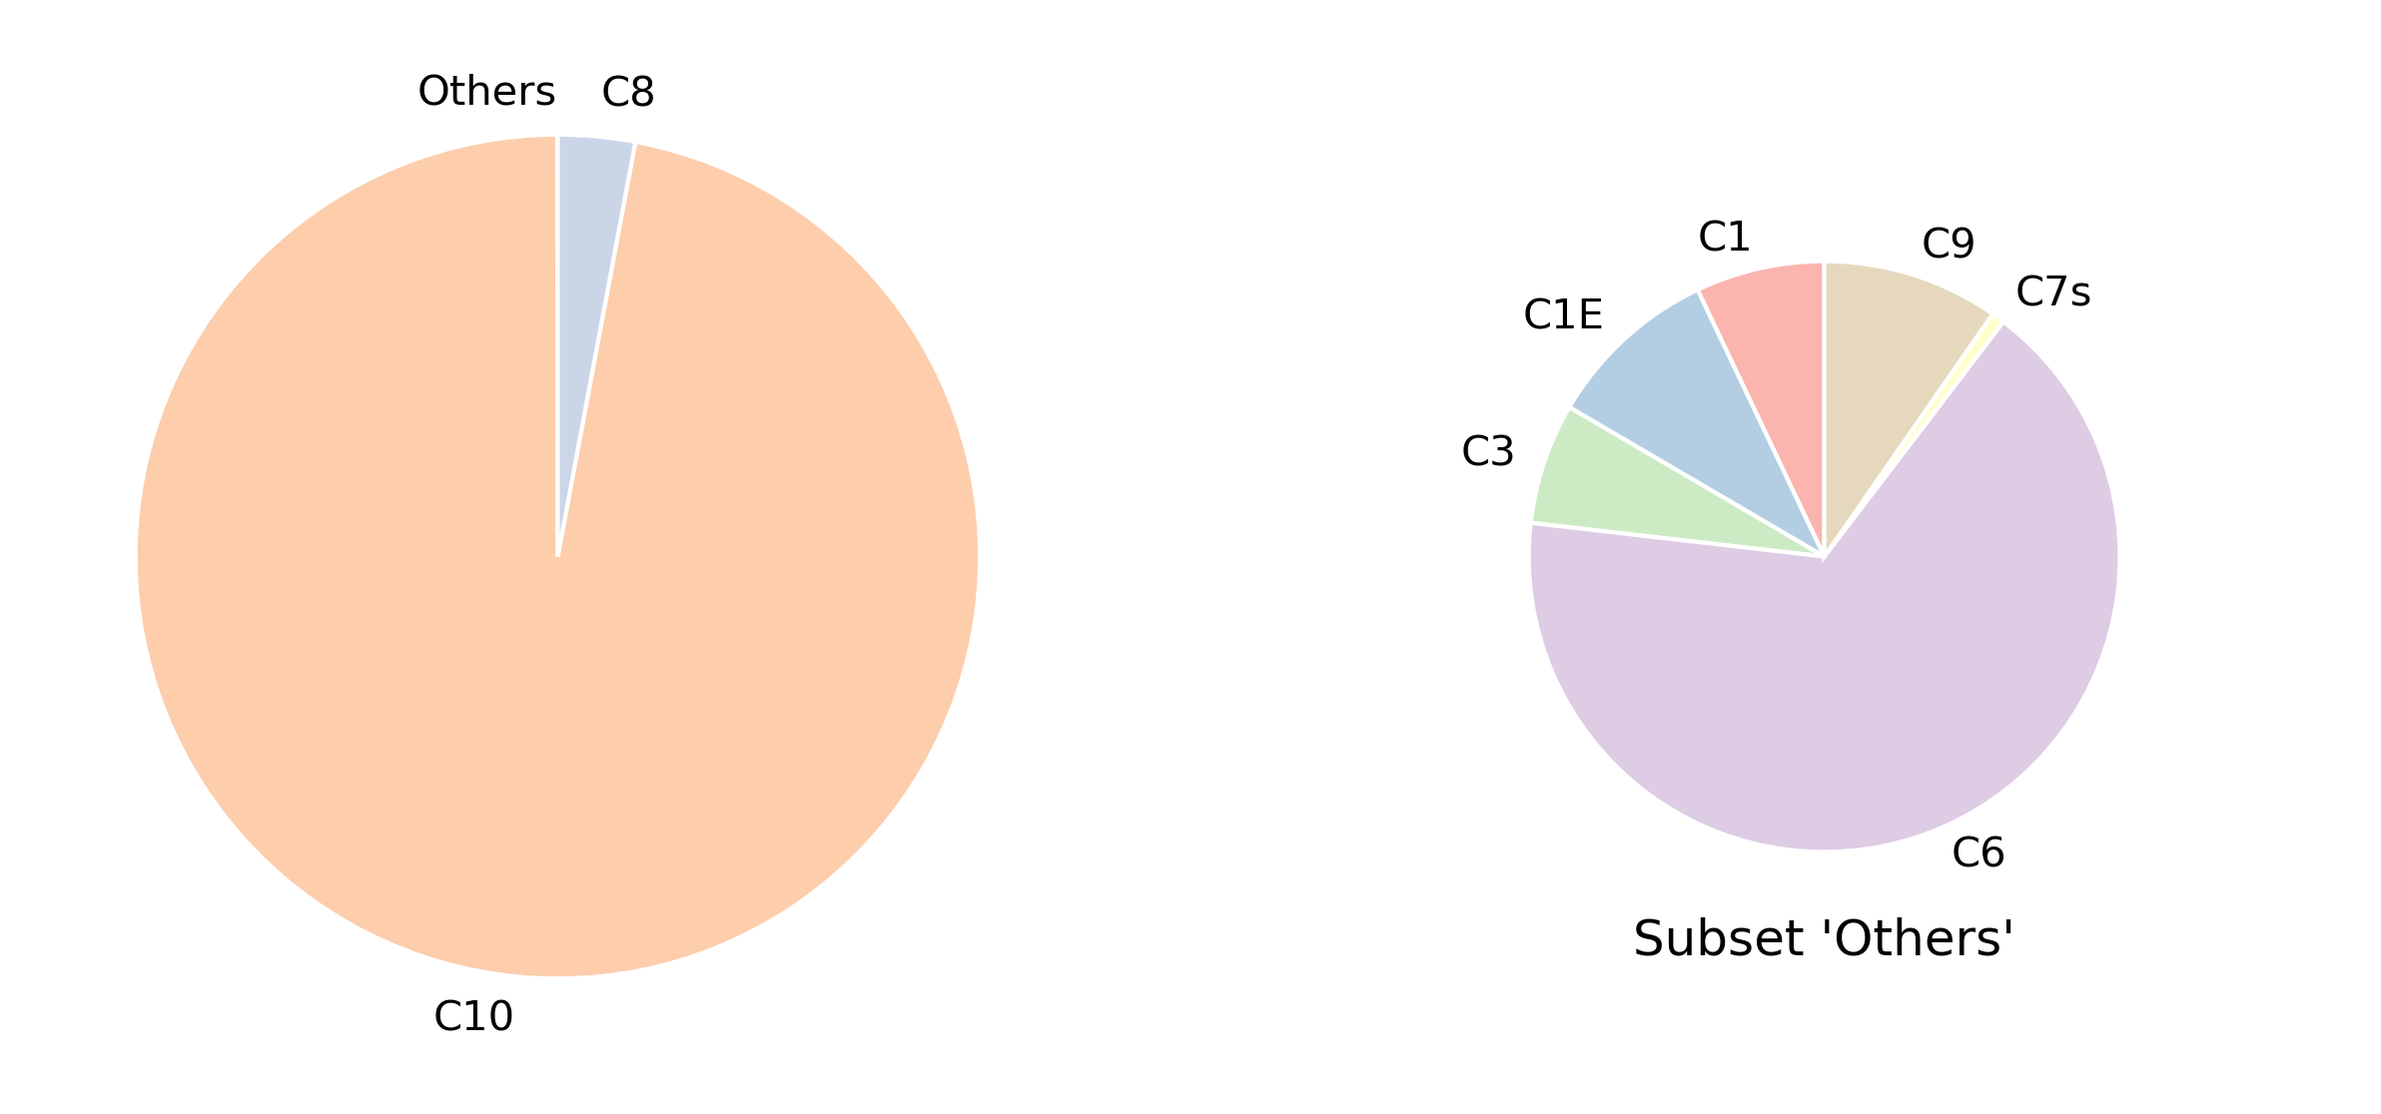
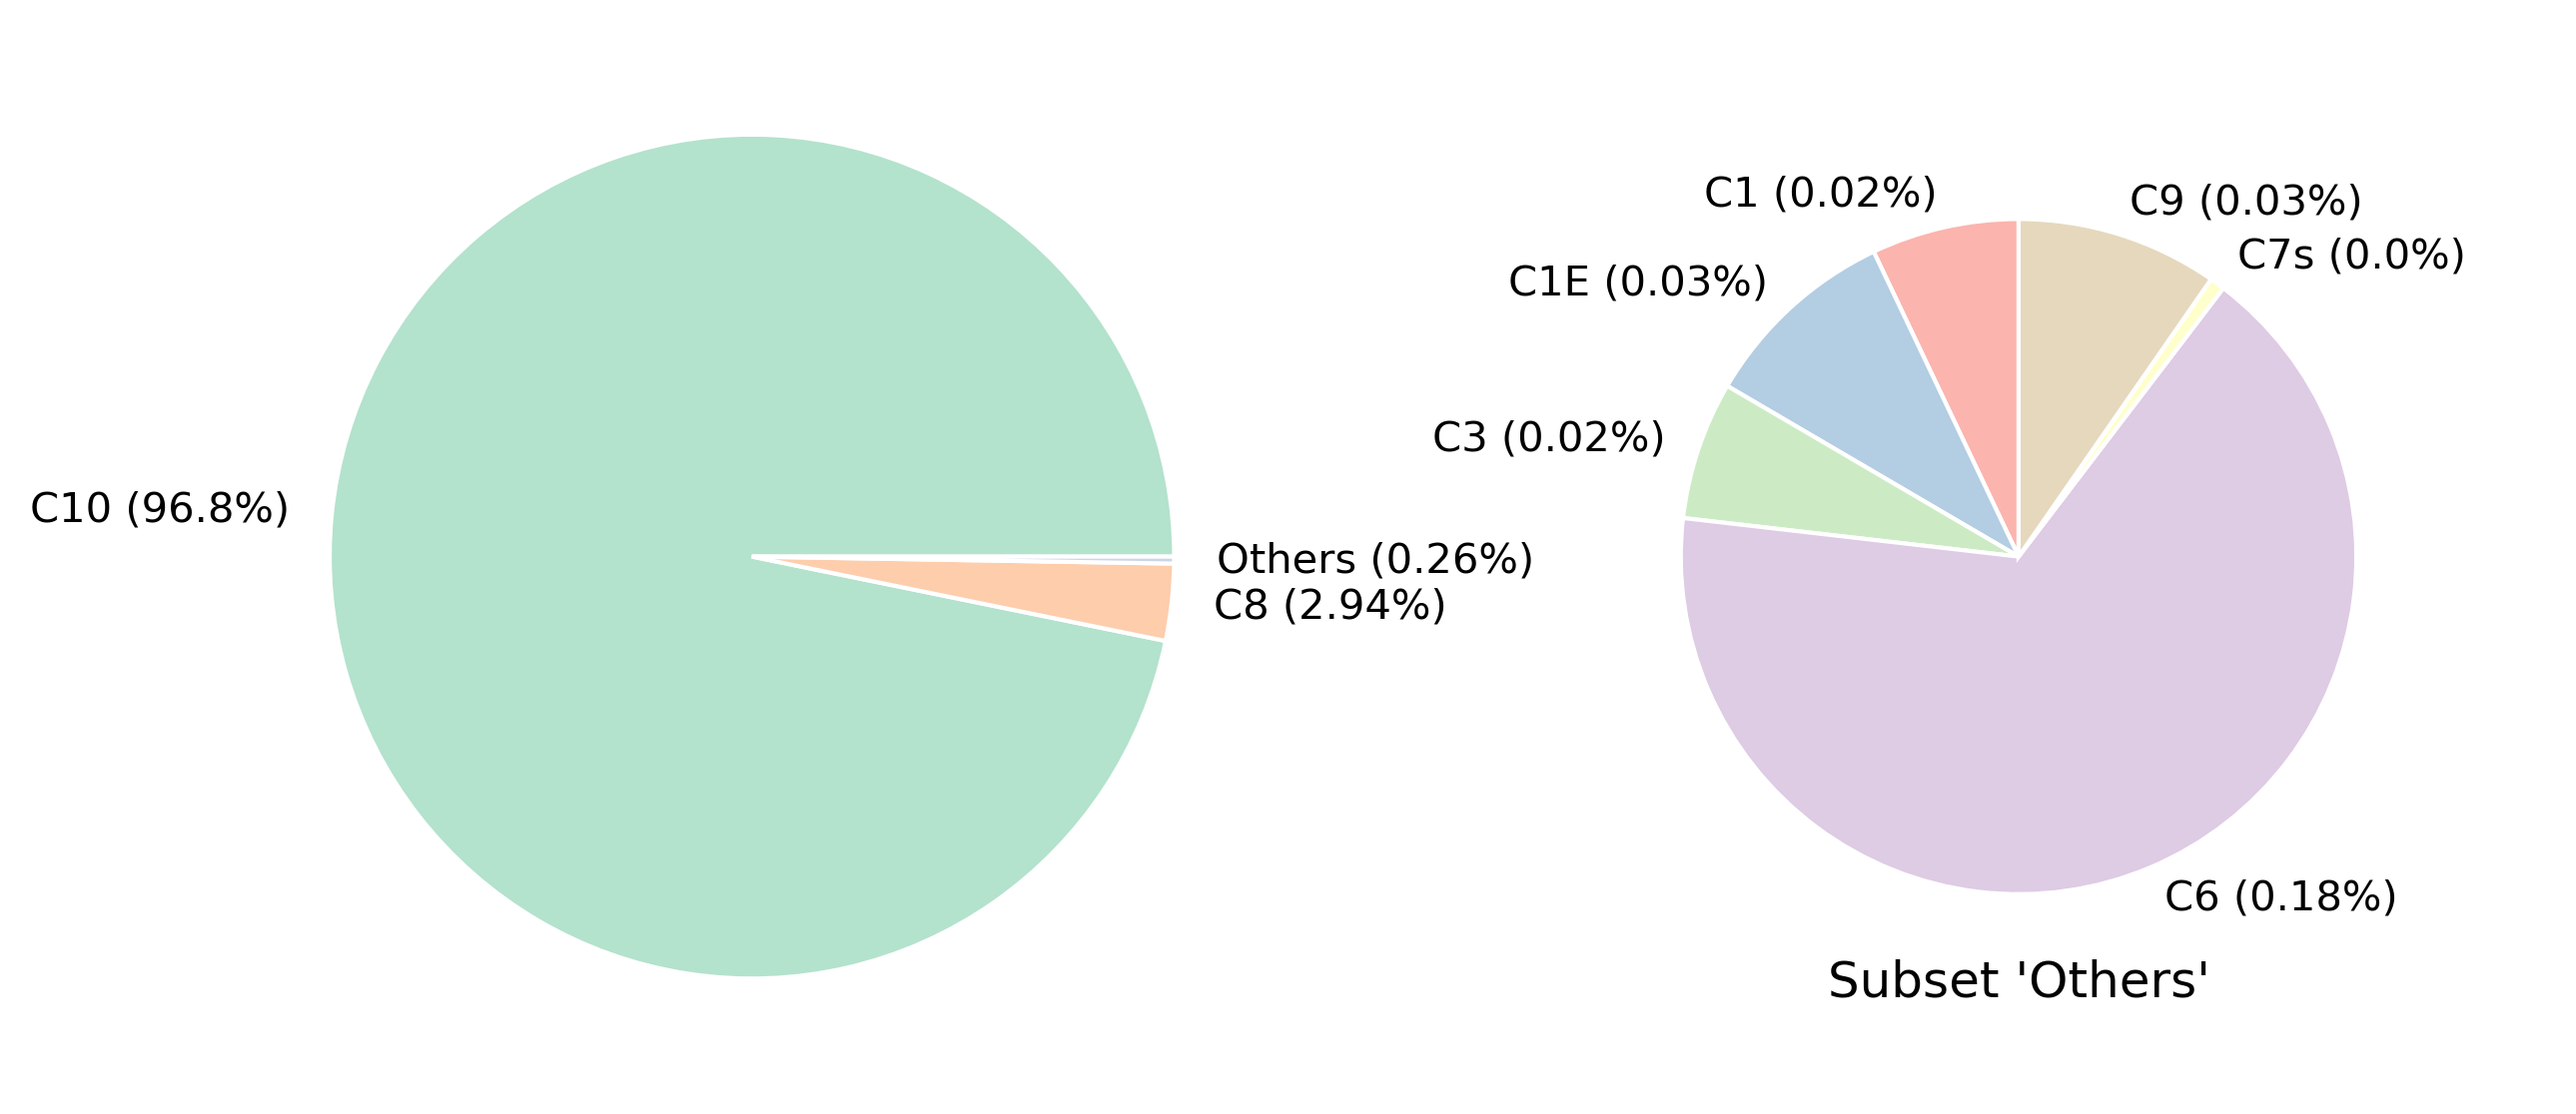
idle-governor: add percentages to pie chart

Changed region(s): [[0.0, 0.1219, 0.5898, 0.9444], [0.5587, 0.1523, 0.9622, 0.914], [0.1862, 0.0609, 0.2794, 0.0914]]

diff --git a/images/idle-governor/idle-governor-cstate-pie-time.py b/images/idle-governor/idle-governor-cstate-pie-time.py
@@ -14,28 +14,32 @@ lineprops = {"linewidth": 1, "edgecolor": "white"}
 
 df = pd.read_csv(FILE_DATA, delim_whitespace=True, usecols=['C-State', 'Sleep[ns]'])
 grouped_data = df.groupby('C-State')['Sleep[ns]'].sum().reset_index()
+grouped_data['Perc'] = (grouped_data['Sleep[ns]'] / grouped_data['Sleep[ns]'].sum()) * 100
 
 largest_i = grouped_data.nlargest(2, 'Sleep[ns]').index
 without_largest = grouped_data.drop(largest_i)
+
+# Sum up all but the largest rows and add them to 'Others'
+others_row = {'C-State' : 'Others', 'Sleep[ns]' : without_largest['Sleep[ns]'].sum()}
+with_largest = grouped_data.loc[largest_i]
+with_largest.loc[len(with_largest)] = others_row
+with_largest['Perc'] = (with_largest['Sleep[ns]'] / with_largest['Sleep[ns]'].sum()) * 100
+
 colors1 = plt.get_cmap('Pastel2')(np.linspace(0, 1, len(grouped_data['C-State'])))
 colors2 = plt.get_cmap('Pastel1')(np.linspace(0, 1, len(grouped_data['C-State'])))
 
 fig, axs = plt.subplots(1, 2, figsize=(10, 30))
 
-# Include other row
-df_filtered = grouped_data.loc[grouped_data.index.isin(largest_i) | (grouped_data.index == grouped_data.index.min())]
-df_filtered.loc[df_filtered.index.min(), 'C-State'] = 'Others'
-
 # Left pie chart with all States
-labels_first = df_filtered['C-State']
-axs[0].pie(df_filtered['Sleep[ns]'],
-           startangle=90, wedgeprops=lineprops, labels=labels_first, colors=colors1)
+labels_first = with_largest['C-State'] + ' (' + with_largest['Perc'].round(2).astype(str) + '%)'
+axs[0].pie(with_largest['Sleep[ns]'],
+           startangle=0, wedgeprops=lineprops, labels=labels_first, colors=colors1)
 
 # Right pie chart without the 2 longest sleeping C-States
-labels_scnd = without_largest['C-State']
+labels_scnd = without_largest['C-State'] + ' (' + without_largest['Perc'].round(2).astype(str) + '%)'
 axs[1].pie(without_largest['Sleep[ns]'],
-           startangle=90, wedgeprops=lineprops, labels=labels_scnd, radius=0.7, colors=colors2)
-plt.title('Subset \'Others\'', y=0.1)
+           startangle=90, wedgeprops=lineprops, labels=labels_scnd, radius=0.8, colors=colors2)
+plt.title('Subset \'Others\'', y=0.06)
 
 print(f'generate {FILE_PDF}')
 plt.savefig(FILE_PDF, dpi=300, bbox_inches='tight')
